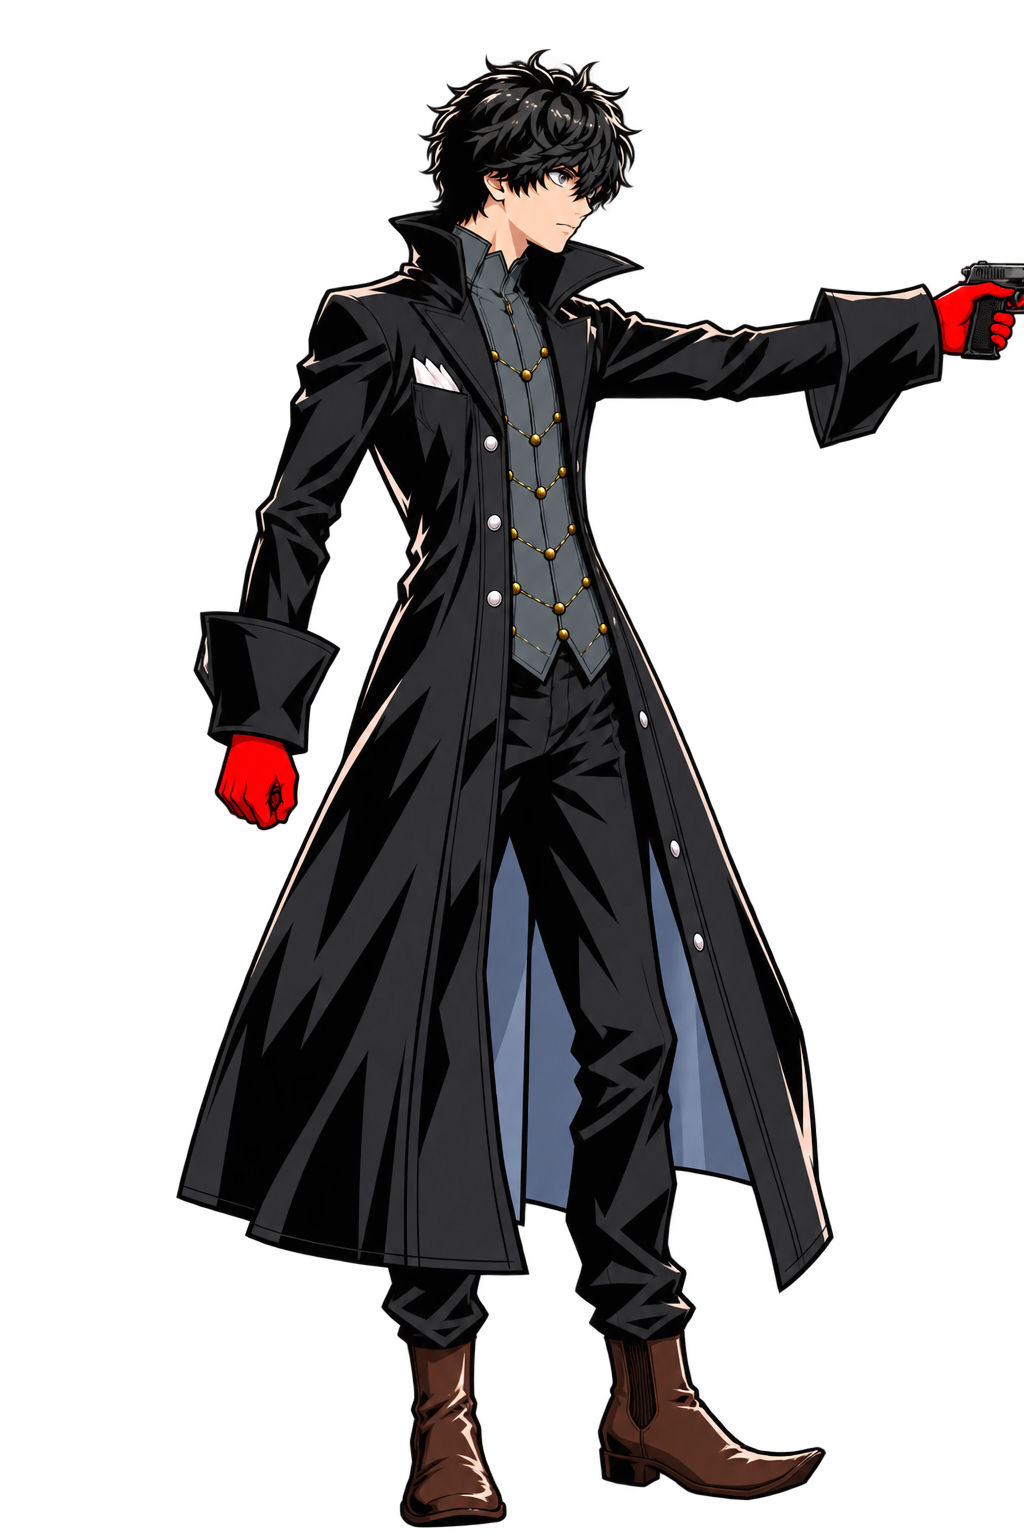
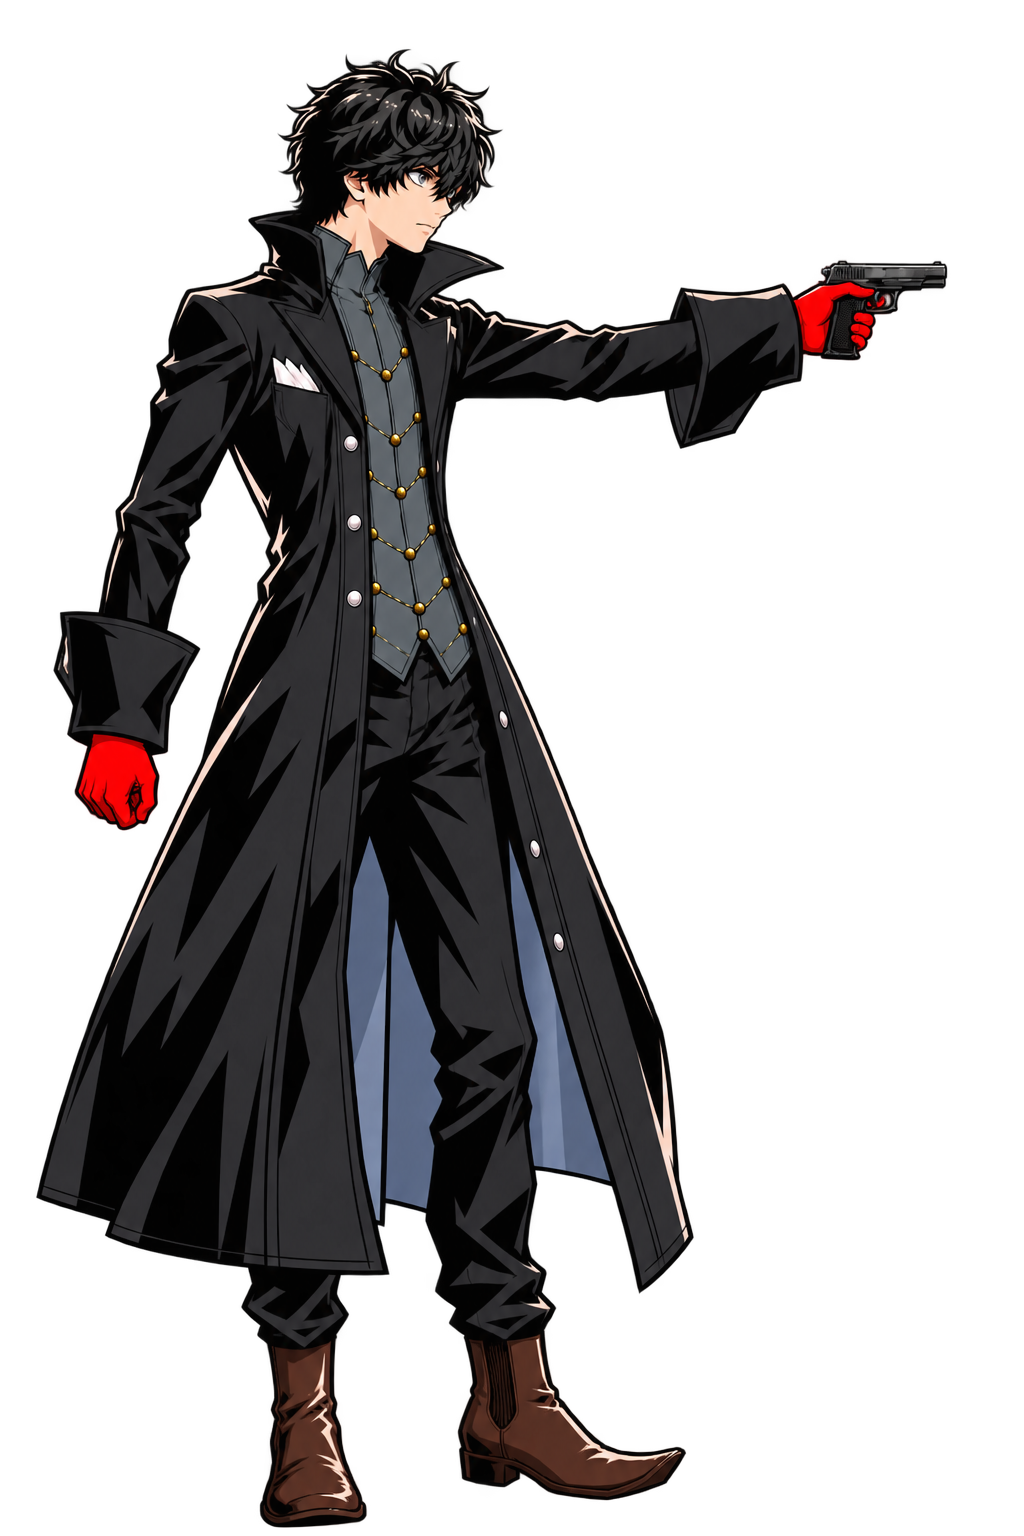
art: P5 gun frames anchored on the rear foot; recoil_a4 into final
Claude-Session: https://claude.ai/code/session_01Nam5m2bn9ofCCWTGM6fwcN

diff --git a/tools/p5/normalize_poses.py b/tools/p5/normalize_poses.py
@@ -23,7 +23,7 @@ REF = 'idle_a3'
 POSES = {'idle_a3': (1.0, 'rear'), 'guard_a2': (1.0, 'front'), 'knife_ready_a': (0.96, 'rear'),
          'slash_a3': (0.96, 'mid'), 'slash_follow_a': (0.96, 'mid'),
          'slash_mid_a': (0.96, 'mid'), 'slash_smear_a3': (0.96, 'mid'), 'guard_mid_a': (1.0, 'front'),
-         'gun_a2': (1.0, 'mid'), 'gun_raise_a2': (1.0, 'mid')}
+         'gun_a2': (1.0, 'rear'), 'gun_raise_a2': (1.0, 'rear'), 'gun_recoil_a4': (1.0, 'rear')}
 
 
 def load(n):
